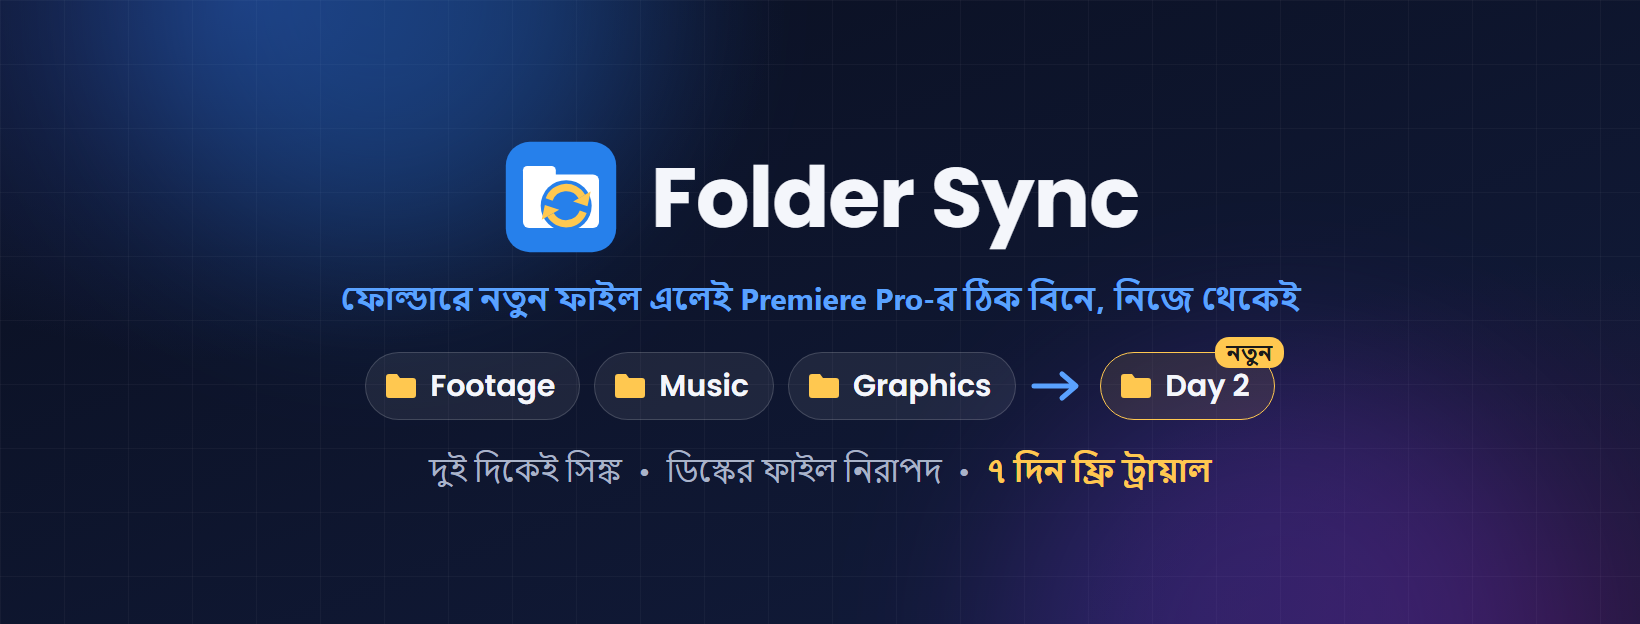
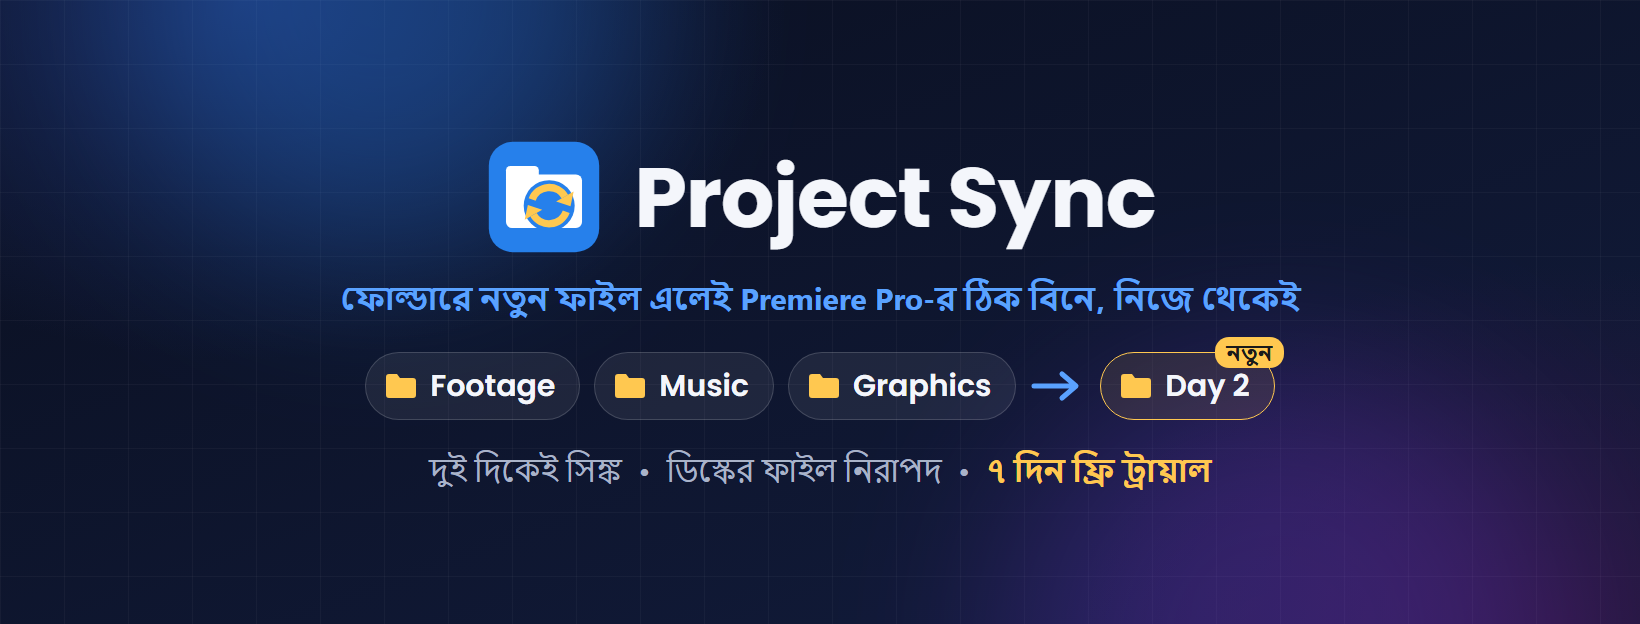
Rename to Project Sync for Premiere Pro

Changed region(s): [[0.2799, 0.2131, 0.7152, 0.4263]]

diff --git a/README.md b/README.md
@@ -1,12 +1,12 @@
-![Folder Sync](docs/cover.png)
+![Project Sync](docs/cover.png)
 
-# Folder Sync — Adobe Premiere Pro plugin
+# Project Sync for Adobe Premiere Pro
 
 **ফোল্ডারে নতুন ফাইল এলেই Premiere Pro-র ঠিক বিনে ইমপোর্ট — একটা ক্লিকে, অথবা নিজে থেকেই। দুই দিকেই সিঙ্ক, আর ডিস্কের কোনো ফাইল কখনো মোছে না।**
 
 ## ⬇ ডাউনলোড / Download
 
-### [Folder-Sync.zip — সর্বশেষ ভার্সন (latest version)](https://github.com/ocpabdurrahim/folder-sync/releases/latest/download/Folder-Sync.zip)
+### [Project-Sync.zip — সর্বশেষ ভার্সন (latest version)](https://github.com/ocpabdurrahim/project-sync/releases/latest/download/Project-Sync.zip)
 
 ৭ দিন ফ্রি ট্রায়াল • 7-day free trial
 লাইসেন্স কিনতে / To buy a license: **WhatsApp 01912-007750 (+880 1912-007750)** ([chat](https://wa.me/8801912007750))
@@ -18,7 +18,7 @@
 
 ## বাংলা
 
-আপনি Premiere-এ একটা ফোল্ডার (Footage, Music, Graphics …) ইমপোর্ট করেছেন, পরে সেই ফোল্ডারে আরও ফাইল এসেছে: ক্যামেরার নতুন ক্লিপ, নতুন গান, নতুন "Day 2" ফোল্ডার। Premiere সেটা টের পায় না — Folder Sync পায়।
+আপনি Premiere-এ একটা ফোল্ডার (Footage, Music, Graphics …) ইমপোর্ট করেছেন, পরে সেই ফোল্ডারে আরও ফাইল এসেছে: ক্যামেরার নতুন ক্লিপ, নতুন গান, নতুন "Day 2" ফোল্ডার। Premiere সেটা টের পায় না — Project Sync পায়।
 
 **যা করে**
 - ইমপোর্ট করা ফোল্ডারের নতুন ফাইল তার ফোল্ডারের বিনে ইমপোর্ট করে; নতুন সাব-ফোল্ডার নিজের বিন পায়
@@ -38,7 +38,7 @@
 2. Premiere Pro বন্ধ করুন।
 3. Extract করা ফোল্ডারে **Install.bat**-এ ডাবল ক্লিক, **Y** চাপুন।
    "Windows protected your PC" দেখালে: **More info > Run anyway**।
-4. Premiere Pro-তে: **Window > Extensions > Folder Sync**।
+4. Premiere Pro-তে: **Window > Extensions > Project Sync**।
 
 বিস্তারিত গাইড zip-এর ভেতরে: `README-Bangla.txt`।
 
@@ -48,7 +48,7 @@
 
 ## English
 
-You imported a folder (Footage, Music, Graphics …) into Premiere, and later more files land in it: new clips from the camera, a new song, a new "Day 2" folder. Premiere does not notice. Folder Sync does.
+You imported a folder (Footage, Music, Graphics …) into Premiere, and later more files land in it: new clips from the camera, a new song, a new "Day 2" folder. Premiere does not notice. Project Sync does.
 
 **What it does**
 - Imports new files of an imported folder into that folder's bin; a new subfolder gets its own bin
@@ -68,7 +68,7 @@ You imported a folder (Footage, Music, Graphics …) into Premiere, and later mo
 2. Close Premiere Pro.
 3. In the extracted folder, double-click **Install.bat** and press **Y**.
    If Windows says "Windows protected your PC": **More info > Run anyway**.
-4. In Premiere Pro: **Window > Extensions > Folder Sync**.
+4. In Premiere Pro: **Window > Extensions > Project Sync**.
 
 Full guide inside the zip: `README.txt`.
 
